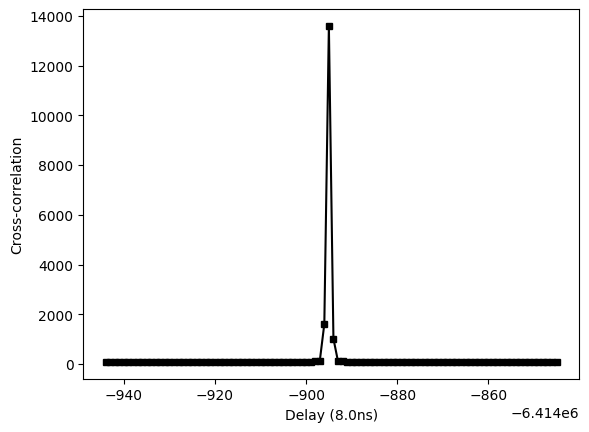
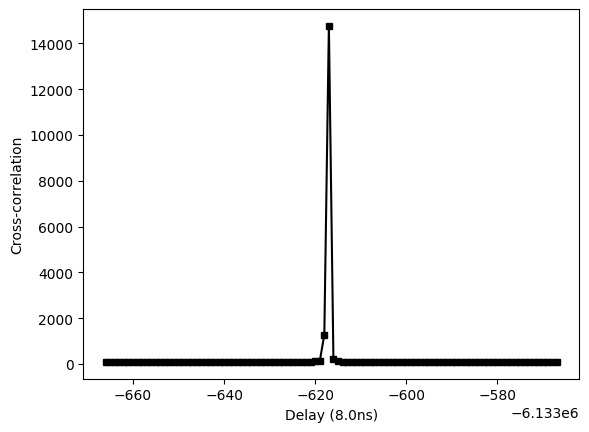
gradient descent

diff --git a/src/correction.py b/src/correction.py
@@ -1,5 +1,9 @@
 import numpy as np
 import dopplerShiftAnsatz
+import xcorrProcessor
+import stampProcessor
+import matplotlib.pyplot as plt
+
 
 def ansatz(sat, loc, startTime, timeStamp, units):
 
@@ -12,24 +16,127 @@ def ansatz(sat, loc, startTime, timeStamp, units):
 
 	return unshiftedTimeStamp, coeffs
 
-def quadShift(timeStamp, a, b, c):
-	shifted = timeStamp.copy()
-	for i in range(len(shifted)):
+def quadUnshift(timeStamp, a, b, c):
+	unshifted = timeStamp.copy()
+	for i in range(len(unshifted)):
 		t = timeStamp[i]
-		shifted[i] = t - (a*t*t + b*t+ c)
-	return shifted
+		unshifted[i] = t - (a*t*t + b*t+ c)
+	return unshifted
 
-def paramSearch(_a, _b, _c, timeStampAlice, timeStampBob):
-	# maximise: 2*corr[M] - corr[M-1] - corr[M+1]
-	# where M = np.argmax(corr)
+def paramSearch(
+	rateA, rateB, epsilon,
+	a, b, c, 
+	timeStampAlice, 
+	timeStampBob,
+	coarseTau,
+	mode):
 
-	a=1
-	b=1
-	c=1
+	print("============= starting param search ============")
+
+	c = 0 # disregard constant offset
+
+	unshiftedTimeStampBob1 = quadUnshift(
+		timeStampBob, a, b, c
+	)
+
+	print("=========== coarse FFT =============")
+	# coarse cross-correlation
+	coarseTimebinAlice = stampProcessor.timebin(coarseTau, timeStampAlice)
+	coarseTimebinBob = stampProcessor.timebin(coarseTau, unshiftedTimeStampBob1)
+
+	ccCoarse, coarseShift = xcorrProcessor.xcorrFFT(
+		coarseTimebinAlice, coarseTimebinBob, coarseTau
+	)
+
+	coarseDelay = int( coarseShift * coarseTau )
+	print('coarseDelay', coarseDelay)
+
+	print("=========== fine FFT 1 ================")
+	window = 10000
+	startIdx = coarseDelay - window
+	endIdx = coarseDelay + window
+	binNum = window / 8 # 16.0ns
+	fineTau = (endIdx - startIdx)/binNum #fine bin size
+	bins = np.linspace(startIdx, endIdx, binNum)
+
+	print('startIdx, endIdx', startIdx, endIdx)
+	print('bin size (ns)', fineTau )
+
+	ccFine1, fineShift = xcorrProcessor.xcorrFine(timeStampAlice, unshiftedTimeStampBob1, bins)
+
+	gain1 = spread(ccFine1)
+
+	print("=========== fine FFT 2 ================")
+
+	_a = a - 0.0001*a
+	_b = b - 0.0001*b
+
+	unshiftedTimeStampBob2 = quadUnshift(
+		timeStampBob, _a, _b, c
+	)
+
+	ccFine2, fineShift = xcorrProcessor.xcorrFine(timeStampAlice, unshiftedTimeStampBob2, bins)
+
+	gain2 = spread(ccFine2)
+
+	print('gain 1', gain1)
+	print('gain 2', gain2)
+
+	ccFine = None
+	iteration = 0
+	while (gain2 - gain1 > epsilon):
+	
+		iteration += 1
+		print('================ iteration: ', iteration, '===============')
+
+		diff = gain2 - gain1
+		da = diff/(_a - a)
+		db = diff/(_b - b)
+
+		a = _a
+		b = _b
+
+		_a = a + rateA*da
+		_b = b + rateB*db
+
+		print('change in a', _a - a)
+		print('change in b', _b - b)
+
+		unshiftedTimeStampBob = quadUnshift(
+			timeStampBob, _a, _b, c
+		)
+
+		gain1 = gain2
+		ccFine, fineShift = xcorrProcessor.xcorrFine(timeStampAlice, unshiftedTimeStampBob, bins)
+
+		gain2 = spread(ccFine)
+		
+		inner = 0
+		while (gain2 < gain1):
+			print('gain2 - gain1', gain2 - gain1)
+			inner +=1 
+			print('--------------iteration', iteration, 'inner', inner, '-------------')
+			_a = a + rateA*da
+			_b = b + rateB*db/(2*inner)
+
+			unshiftedTimeStampBob = quadUnshift(
+				timeStampBob, _a, _b, c
+			)
+
+			ccFine, fineShift = xcorrProcessor.xcorrFine(timeStampAlice, unshiftedTimeStampBob, bins)
+
+			gain2 = spread(ccFine)
+		
+
+		xcorrProcessor.plotXcorr(ccFine, fineTau, coarseDelay / fineTau, mode+str(iteration))
+
+		print('gain 1', gain1)
+		print('gain 2', gain2)
+
 	return a, b, c
 
 def spread(xcorr):
 	maxIdx = np.argmax(xcorr)
 	spread = 2*xcorr[maxIdx] - xcorr[maxIdx - 1] - xcorr[maxIdx + 1]
 
-	return spread
+	return spread / max(xcorr)

diff --git a/src/testCorrection.py b/src/testCorrection.py
@@ -12,6 +12,9 @@ filenameTLE = sys.argv[3]
 filenameSavedPass = sys.argv[4]
 mode = sys.argv[5] # unshiftedGuess, propagationDelayGuess, clockDriftShiftGuess, or aliceBobGuess
 
+rateA = 5e-42 * 10
+rateB = 5e-20 * 10
+epsilon = 0.000001
 units = 1e-9
 coarseTau = 10000
 sat, loc, startTime = stampProcessor.parseSatellite(filenameTLE, filenameSavedPass)
@@ -20,43 +23,13 @@ timeStampAlice = np.load(filenameAlice)
 timeStampBob = np.load(filenameBob)
 
 print("=========== doppler shift ansatz ============")
-timeStampBob, coeffsAnsatz = correction.ansatz(
+timeStampBobAnsatz, coeffsAnsatz = correction.ansatz(
 	sat, loc, startTime, timeStampBob, units
 	)
 
-print("=====================FFT=====================")
-# the coarse xcorr gives an estimate of the delay to
-
-# coarse cross-correlation
-coarseTimebinAlice = stampProcessor.timebin(coarseTau, timeStampAlice)
-coarseTimebinBob = stampProcessor.timebin(coarseTau, timeStampBob)
-
-ccCoarse, coarseShift = xcorrProcessor.xcorrFFT(
-	coarseTimebinAlice, coarseTimebinBob, coarseTau
+a, b, c = correction.paramSearch(
+	rateA, rateB, epsilon,
+	coeffsAnsatz[0], coeffsAnsatz[1], coeffsAnsatz[2],
+	timeStampAlice, timeStampBob, coarseTau, mode
 )
-
-# plot
-# stampProcessor.plotStamps(timeStampAlice, timeStampBob, coarseTimebinAlice, coarseTimebinBob, mode)
-xcorrProcessor.plotXcorr(ccCoarse, coarseTau, 0, mode)
-
-print("=====================FINE=====================")
-coarseDelay = int( coarseShift * coarseTau )
-print('coarseDelay', coarseDelay)
-
-window = 10000
-startIdx = coarseDelay - window
-endIdx = coarseDelay + window
-binNum = window / 4 # 8.0ns
-fineTau = (endIdx - startIdx)/binNum #fine bin size
-bins = np.linspace(startIdx, endIdx, binNum)
-
-print('startIdx, endIdx', startIdx, endIdx)
-print('bin size (ns)', fineTau )
-
-ccFine, fineShift = xcorrProcessor.xcorrFine(timeStampAlice, timeStampBob, bins)
- 
-print('np.argmax(cc) ', np.argmax(ccFine) )
-fineDelay = fineShift * fineTau + coarseDelay
-print('fineDelay', fineDelay)
-xcorrProcessor.plotXcorr(ccFine, fineTau, coarseDelay / fineTau, mode)
 

diff --git a/src/stampProcessor.py b/src/stampProcessor.py
@@ -127,7 +127,7 @@ def timebin(tau, timeStamp):
 
 		for binIdx in range(maxBinIdx):
 			binLimit = (binIdx)*t
-			while (arr[arrIdx] < binLimit and arrIdx < len(arr)):
+			while (arr[arrIdx] < binLimit - 1 and arrIdx < len(arr) - 1):
 				binnedArray[binIdx - 1] += 1
 				arrIdx += 1
 			

diff --git a/src/xcorrProcessor.py b/src/xcorrProcessor.py
@@ -47,6 +47,8 @@ def xcorr(timeStampAlice, timeStampBob, coarseTau, mode):
 	print('fineDelay', fineDelay)
 	plotXcorr(ccFine, fineTau, coarseDelay / fineTau, mode)
 
+	return ccFine
+
 def xcorrFine(x, y, bins):
 
 	print('starting xcorr')

diff --git a/src/main.py b/src/main.py
@@ -28,7 +28,7 @@ timeStampAlice, timeStampBob = stampProcessor.process(
 	clockDrift
 )
 
-xcorrProcessor.xcorr(
+ccFine = xcorrProcessor.xcorr(
 	timeStampAlice,
 	timeStampBob,
 	coarseTau,
